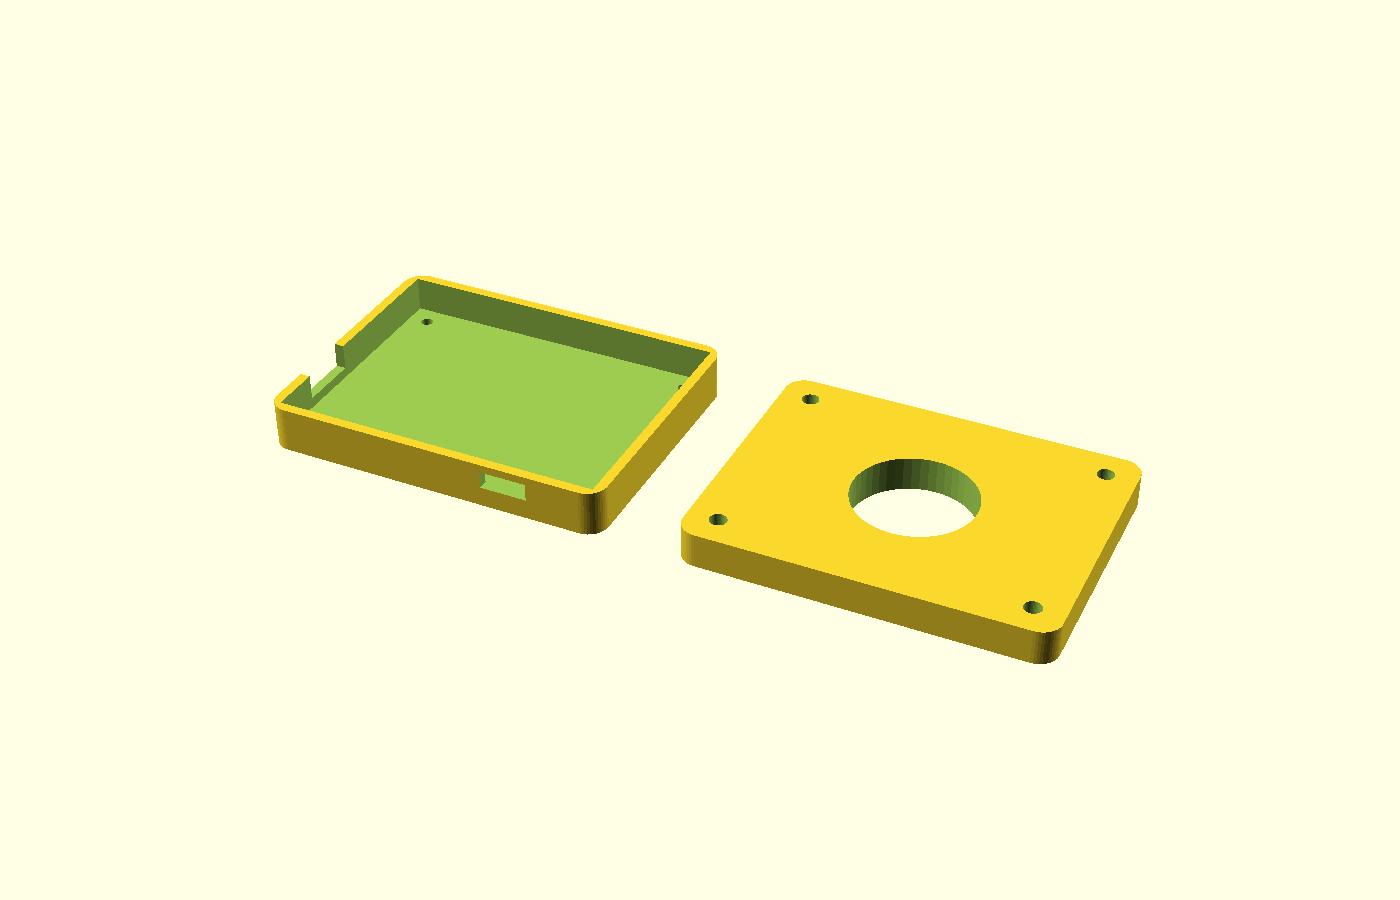
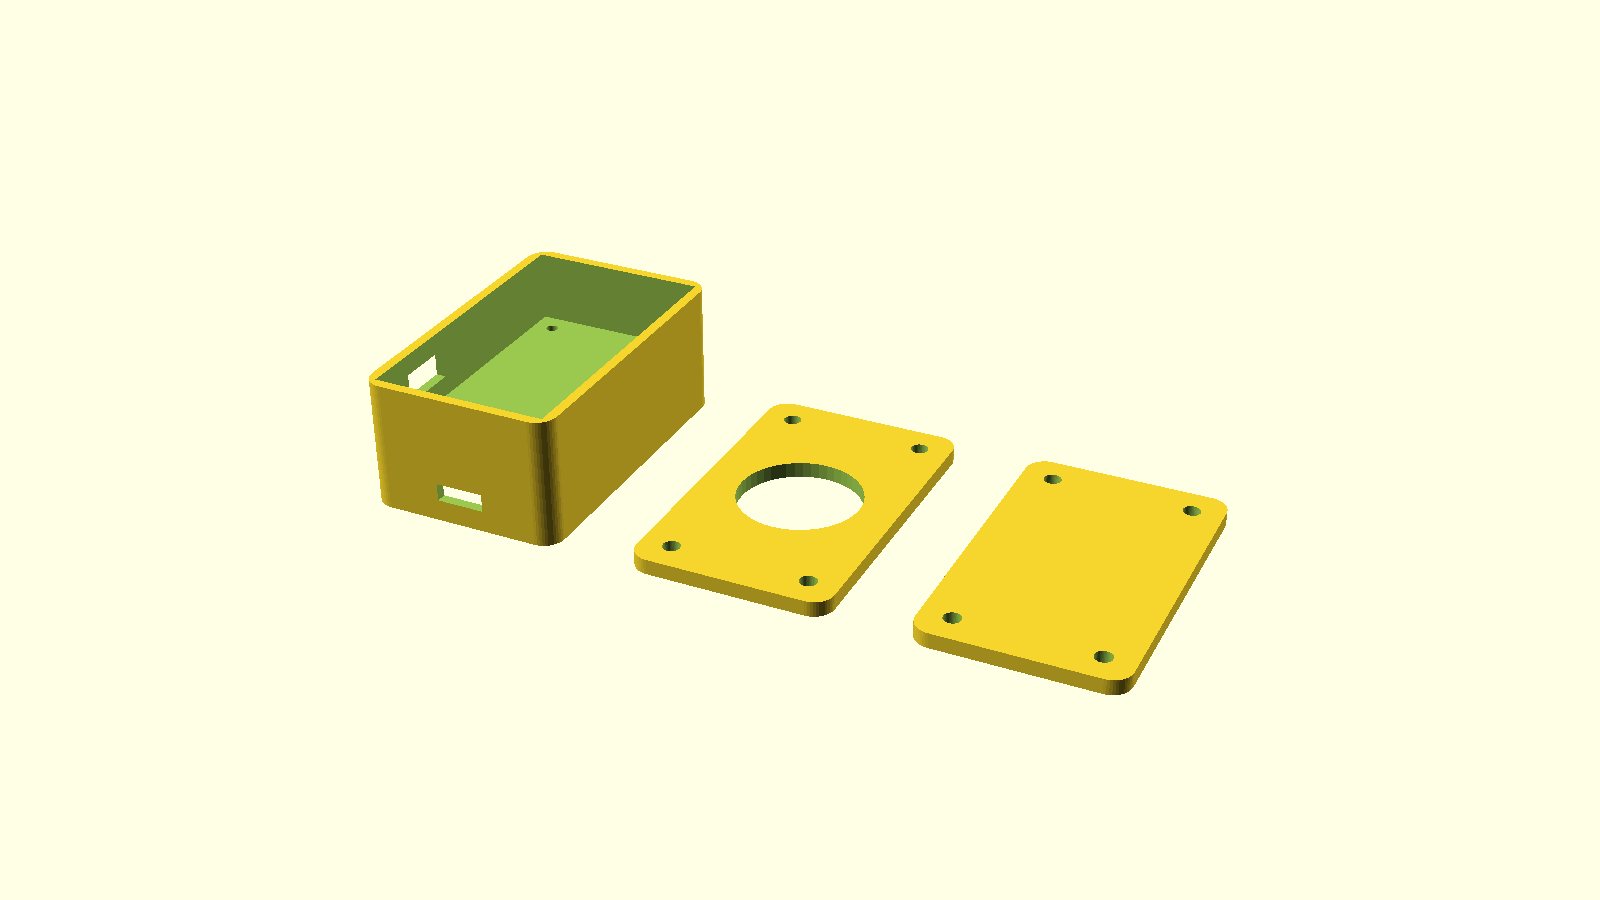
hardware: boitier en deux etages demontables, dimensions ESP32 confirmees
Refonte de boitier_buzzer_equipe.scad : PCB+modules (sur connecteurs
femelles, pas soudes directement) et batterie n'etaient cote a cote dans
un seul compartiment -- passe a deux etages empiles, chacun demontable
independamment (couvercle superieur avec le bouton pour l'etage PCB,
trappe separee pour l'etage batterie), avec une etagere interne et une
fente de passage de cables entre les deux. Permet de changer/recharger
la batterie sans demonter l'electronique du dessus.

Dimensions ESP32-DevKitC-32 (variante equipe) corrigees avec les
specs CONFIRMEES de la fiche produit du modele envisage (52x28mm,
CH340C, USB-C) au lieu d'une estimation web generique (23,37mm de large
pour un DOIT DevKit V1 different -- les clones varient reellement).

Les deux variantes re-rendues et re-verifiees avec un vrai OpenSCAD
(geometrie valide, "Simple: yes") avant de pousser -- pas de texte a
l'aveugle. Apercus mis a jour. BOM documente le nouvel assemblage par
connecteurs et la nouvelle architecture du boitier.

Changed region(s): [[0.1843, 0.28, 0.8293, 0.7778]]

diff --git a/docs/BOM_BUZZER_EQUIPE.md b/docs/BOM_BUZZER_EQUIPE.md
@@ -90,7 +90,17 @@ Câblage simplifié (identique sur les deux cartes) :
 
 ---
 
+## Assemblage : connecteurs, pas de soudure directe
+
+- **Nano, nRF24, et le module ESP32** se montent sur des **connecteurs/headers femelles** soudés sur le PCB — pas soudés directement. Facilite le remplacement en cas de panne d'un module.
+- **Condensateurs et résistances** : mix CMS (montés en machine ou à la pince) et traversants (soudés à la main) selon ce qui est disponible/pratique.
+- **Batterie** : câblée directement (soudée), logée dans son propre compartiment du boîtier (voir ci-dessous).
+
 ## Ce que ça implique pour le boîtier 3D
 
-- **Carte ESP32** : batterie ~2x plus grosse (1000-1200 mAh vs 500-600 mAh) → boîtier plus épais/large sur cette variante. Les deux boîtiers ne pourront pas avoir exactement le même gabarit si on garde ce dimensionnement.
-- Prévoir un accès externe au port USB-C (charge) et à l'interrupteur sur la coque, sans avoir à l'ouvrir.
+Boîtier en **deux étages démontables indépendamment** (voir `hardware/boitier_buzzer_equipe.scad`, rendu et vérifié avec OpenSCAD) :
+- **Étage du haut** : PCB + connecteurs + modules, fermé par un couvercle avec le trou du bouton BUZZ. C'est là que sont câblés les headers.
+- **Étage du bas** : compartiment batterie séparé, avec sa propre trappe — on peut changer/recharger la batterie sans démonter l'électronique du dessus.
+- Une étagère interne sépare les deux, avec une fente de passage pour les fils d'alimentation.
+- **Carte ESP32** : batterie ~2x plus grosse (1000-1200 mAh vs 500-600 mAh) → empreinte au sol différente entre les deux variantes (52×28mm de carte ESP32 confirmés par la fiche produit, contre la Nano+nRF24 plus compacte).
+- Accès externe prévu au port USB-C (charge, sur l'étage batterie) et à l'interrupteur (sur l'étage PCB), sans avoir à ouvrir les couvercles.
